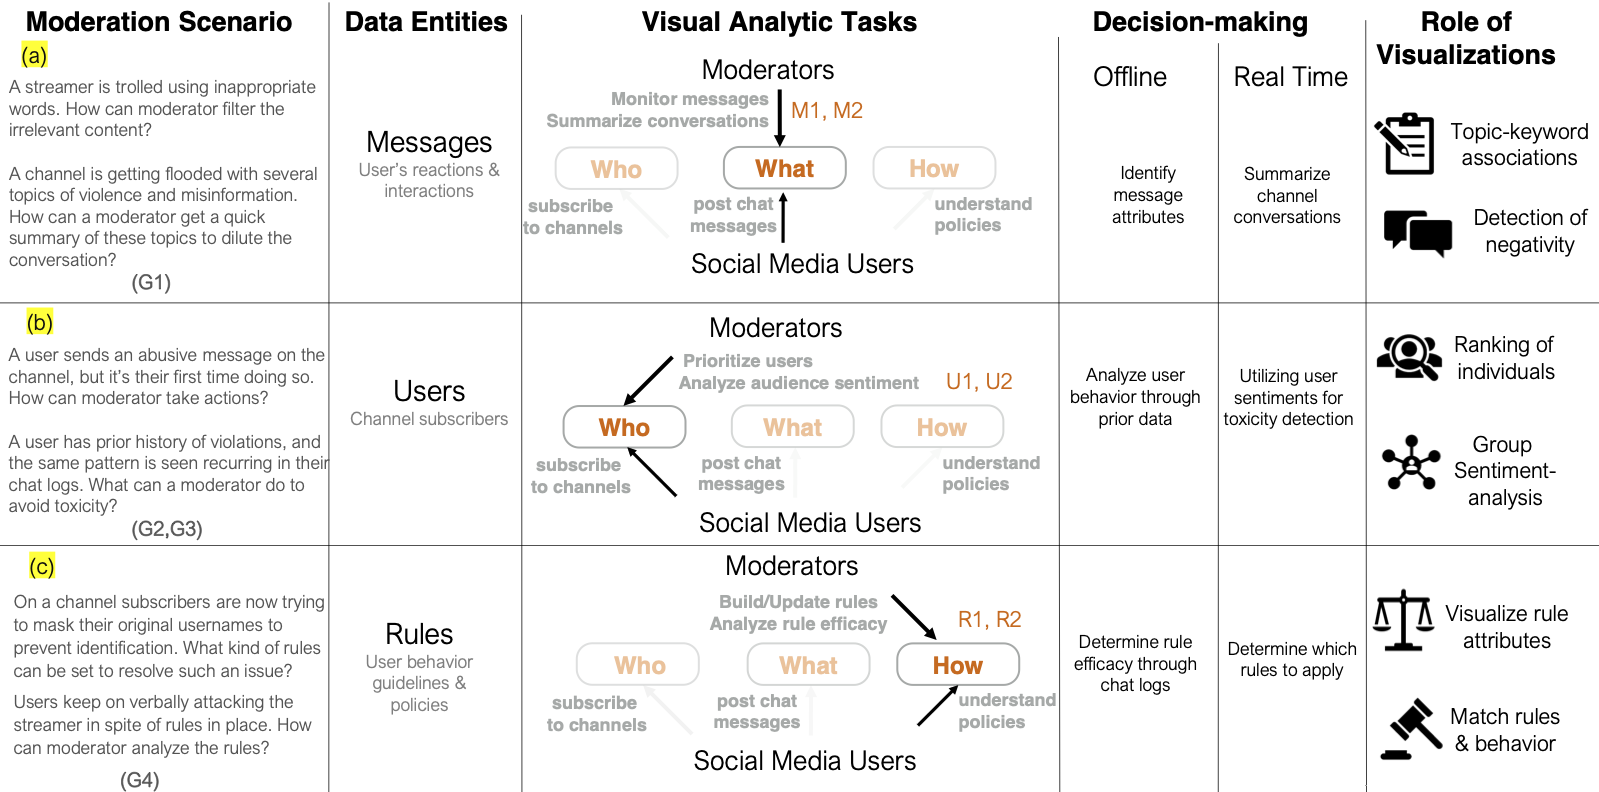
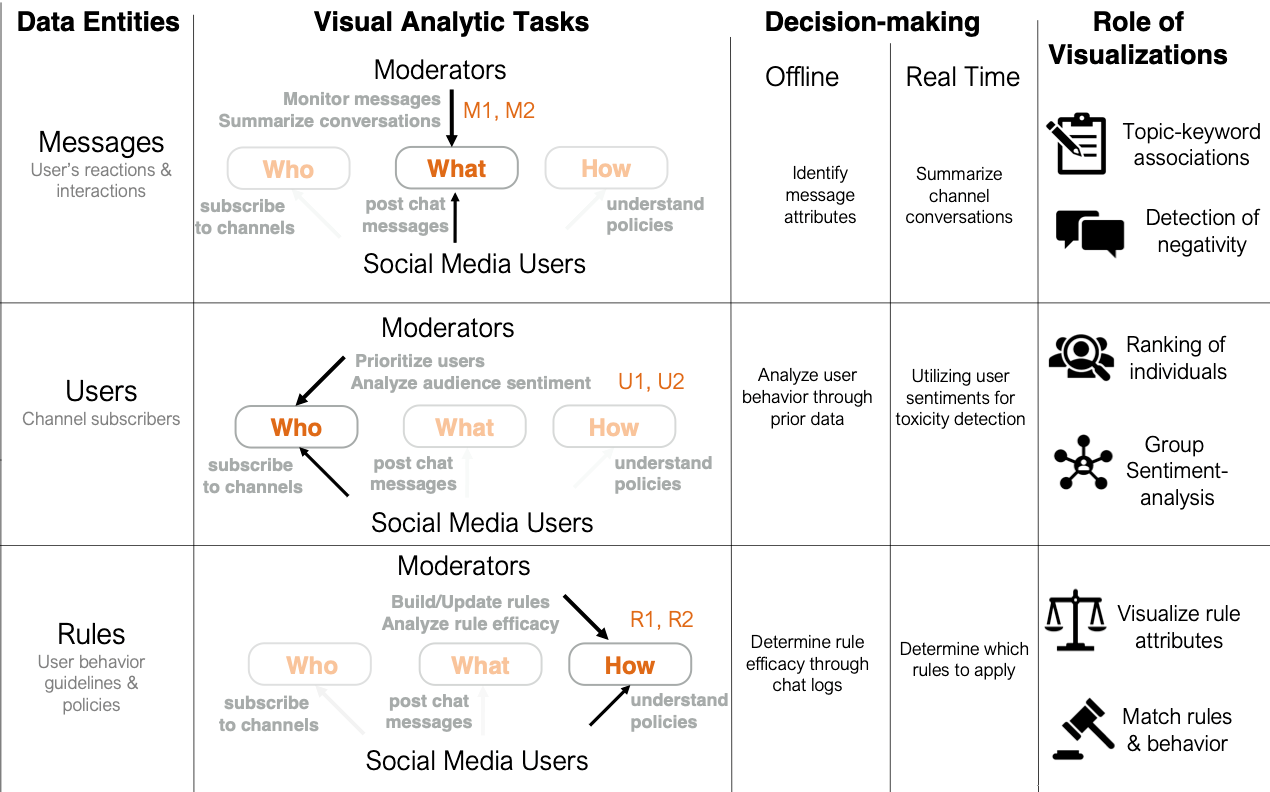
Added card and border for two images

Changed region(s): [[0.0, 0.3636, 0.9827, 1.0], [0.0, 0.0, 1.0, 0.3636]]

diff --git a/index.html b/index.html
@@ -45,8 +45,8 @@
 </head>
 <body>
   <div class="container-fluid" >
-      <nav class="navbar navbar-light bg-light">
-          <span class="navbar-brand mb-0 h1"><p style="color: darksalmon">&nbsp; &nbsp; &nbsp; &nbsp; &nbsp; &nbsp; &nbsp; &nbsp; &nbsp; &nbsp; &nbsp; &nbsp; &nbsp; &nbsp;
+      <nav class="navbar navbar-light ">
+          <span class="navbar-brand mb-0 h1"><p align="right" style="color: darksalmon">&nbsp; &nbsp; &nbsp; &nbsp; &nbsp; &nbsp; &nbsp; &nbsp; &nbsp; &nbsp; &nbsp; &nbsp; &nbsp; &nbsp;
               &nbsp;&nbsp;&nbsp;&nbsp;&nbsp;&nbsp;&nbsp;&nbsp;&nbsp;
               &nbsp;&nbsp;&nbsp;&nbsp;&nbsp;&nbsp;&nbsp;
               &nbsp;&nbsp;&nbsp;&nbsp;&nbsp;&nbsp;&nbsp;
@@ -148,14 +148,19 @@ By embracing a human-centered data science approach that ultimately culminates i
                
                  <div class="row" style="height:15%">
                   <div class="col-lg-6" style="color:rgb(241,128,58)"><b>Visual Analytics for Content Moderation</b></div>
-                  <div class="col-lg-6" style="color:rgb(241,128,58)"><b>IEEEVIS ’21 (Short paper)</b></div>
+                     <div class="col-lg-6" style="color:rgb(241,128,58)"><b>IEEEVIS ’21 (Short paper)</b></div>
+
                 </div>
                  <div class="row" style="height:70%">
-                    <img src="img/highlights/latest/taskMappingv10.png" alt="highlight 1" class="img-fluid" style="width:100%; margin-left: 1%;">
+                     <div class="card" style="width: 25rem;">
+                         <img src="img/highlights/latest/taskMappingv10.png" alt="highlight 1" class="img-fluid" style="width:100%; margin-left: 1%;">
+                         <div class="row" style="height:15%; font-size: 0.9em;">
+                             Conceptualizing Visual Analytic Interventions for Content Moderation, by S. Vaidya, J. Cai, S. Basu, A. Naderi, D.Y. Wohn and A. Dasgupta,  IEEE VIS, 2021
+                         </div>
+                     </div>
+
                  </div>
-                 <div class="row" style="height:15%; font-size: 0.9em;">
-                  Conceptualizing Visual Analytic Interventions for Content Moderation, by S. Vaidya, J. Cai, S. Basu, A. Naderi, D.Y. Wohn and A. Dasgupta,  IEEE VIS, 2021
-                </div>
+
               </div>
               <div class="col-lg-6"><!--each image block-->
 
@@ -164,7 +169,9 @@ By embracing a human-centered data science approach that ultimately culminates i
                  <div class="col-lg-6" style="color:rgb(241,128,58)"><b>TVCG ’21</b></div>
                </div>
                 <div class="row" style="height:70%">
+                    <span class="border border-white">
                    <img src="img/highlights/latest/vis_comparison.png" alt="highlight 1" class="img-fluid" style="width:97%; margin-left: 3%;">
+                    </span>
                 </div>
                 <div class="row" style="height:15%; font-size: 0.83em;">
                   <i>Separating the Wheat from the Chaff</i>: Comparative Visual Cues for Transparent Diagnostics of Competing Models, by A. Dasgupta, H. Wang, N. O'Brien and S. Burrows,  IEEE TVCG, 2019
@@ -180,7 +187,9 @@ By embracing a human-centered data science approach that ultimately culminates i
                  <div class="col-lg-6" style="color:rgb(241,128,58)"><b>IEEEVIS ’21 TREX Workshop</b></div>
                </div>
                 <div class="row" style="height:70%">
+                    <span class="border border-white">
                    <img src="img/highlights/latest/foragingSensemaking.png" alt="highlight 1" class="img-fluid" style="width:100%; margin-left: 1%;">
+                    </span>
                 </div>
                 <div class="row" style="height:15%; font-size: 0.83em">
                   Beyond Visual Analytics: Human-Machine Teaming for AI-Driven Data Sensemaking, by A. Dasgupta,  IEEE VIS, 2021
